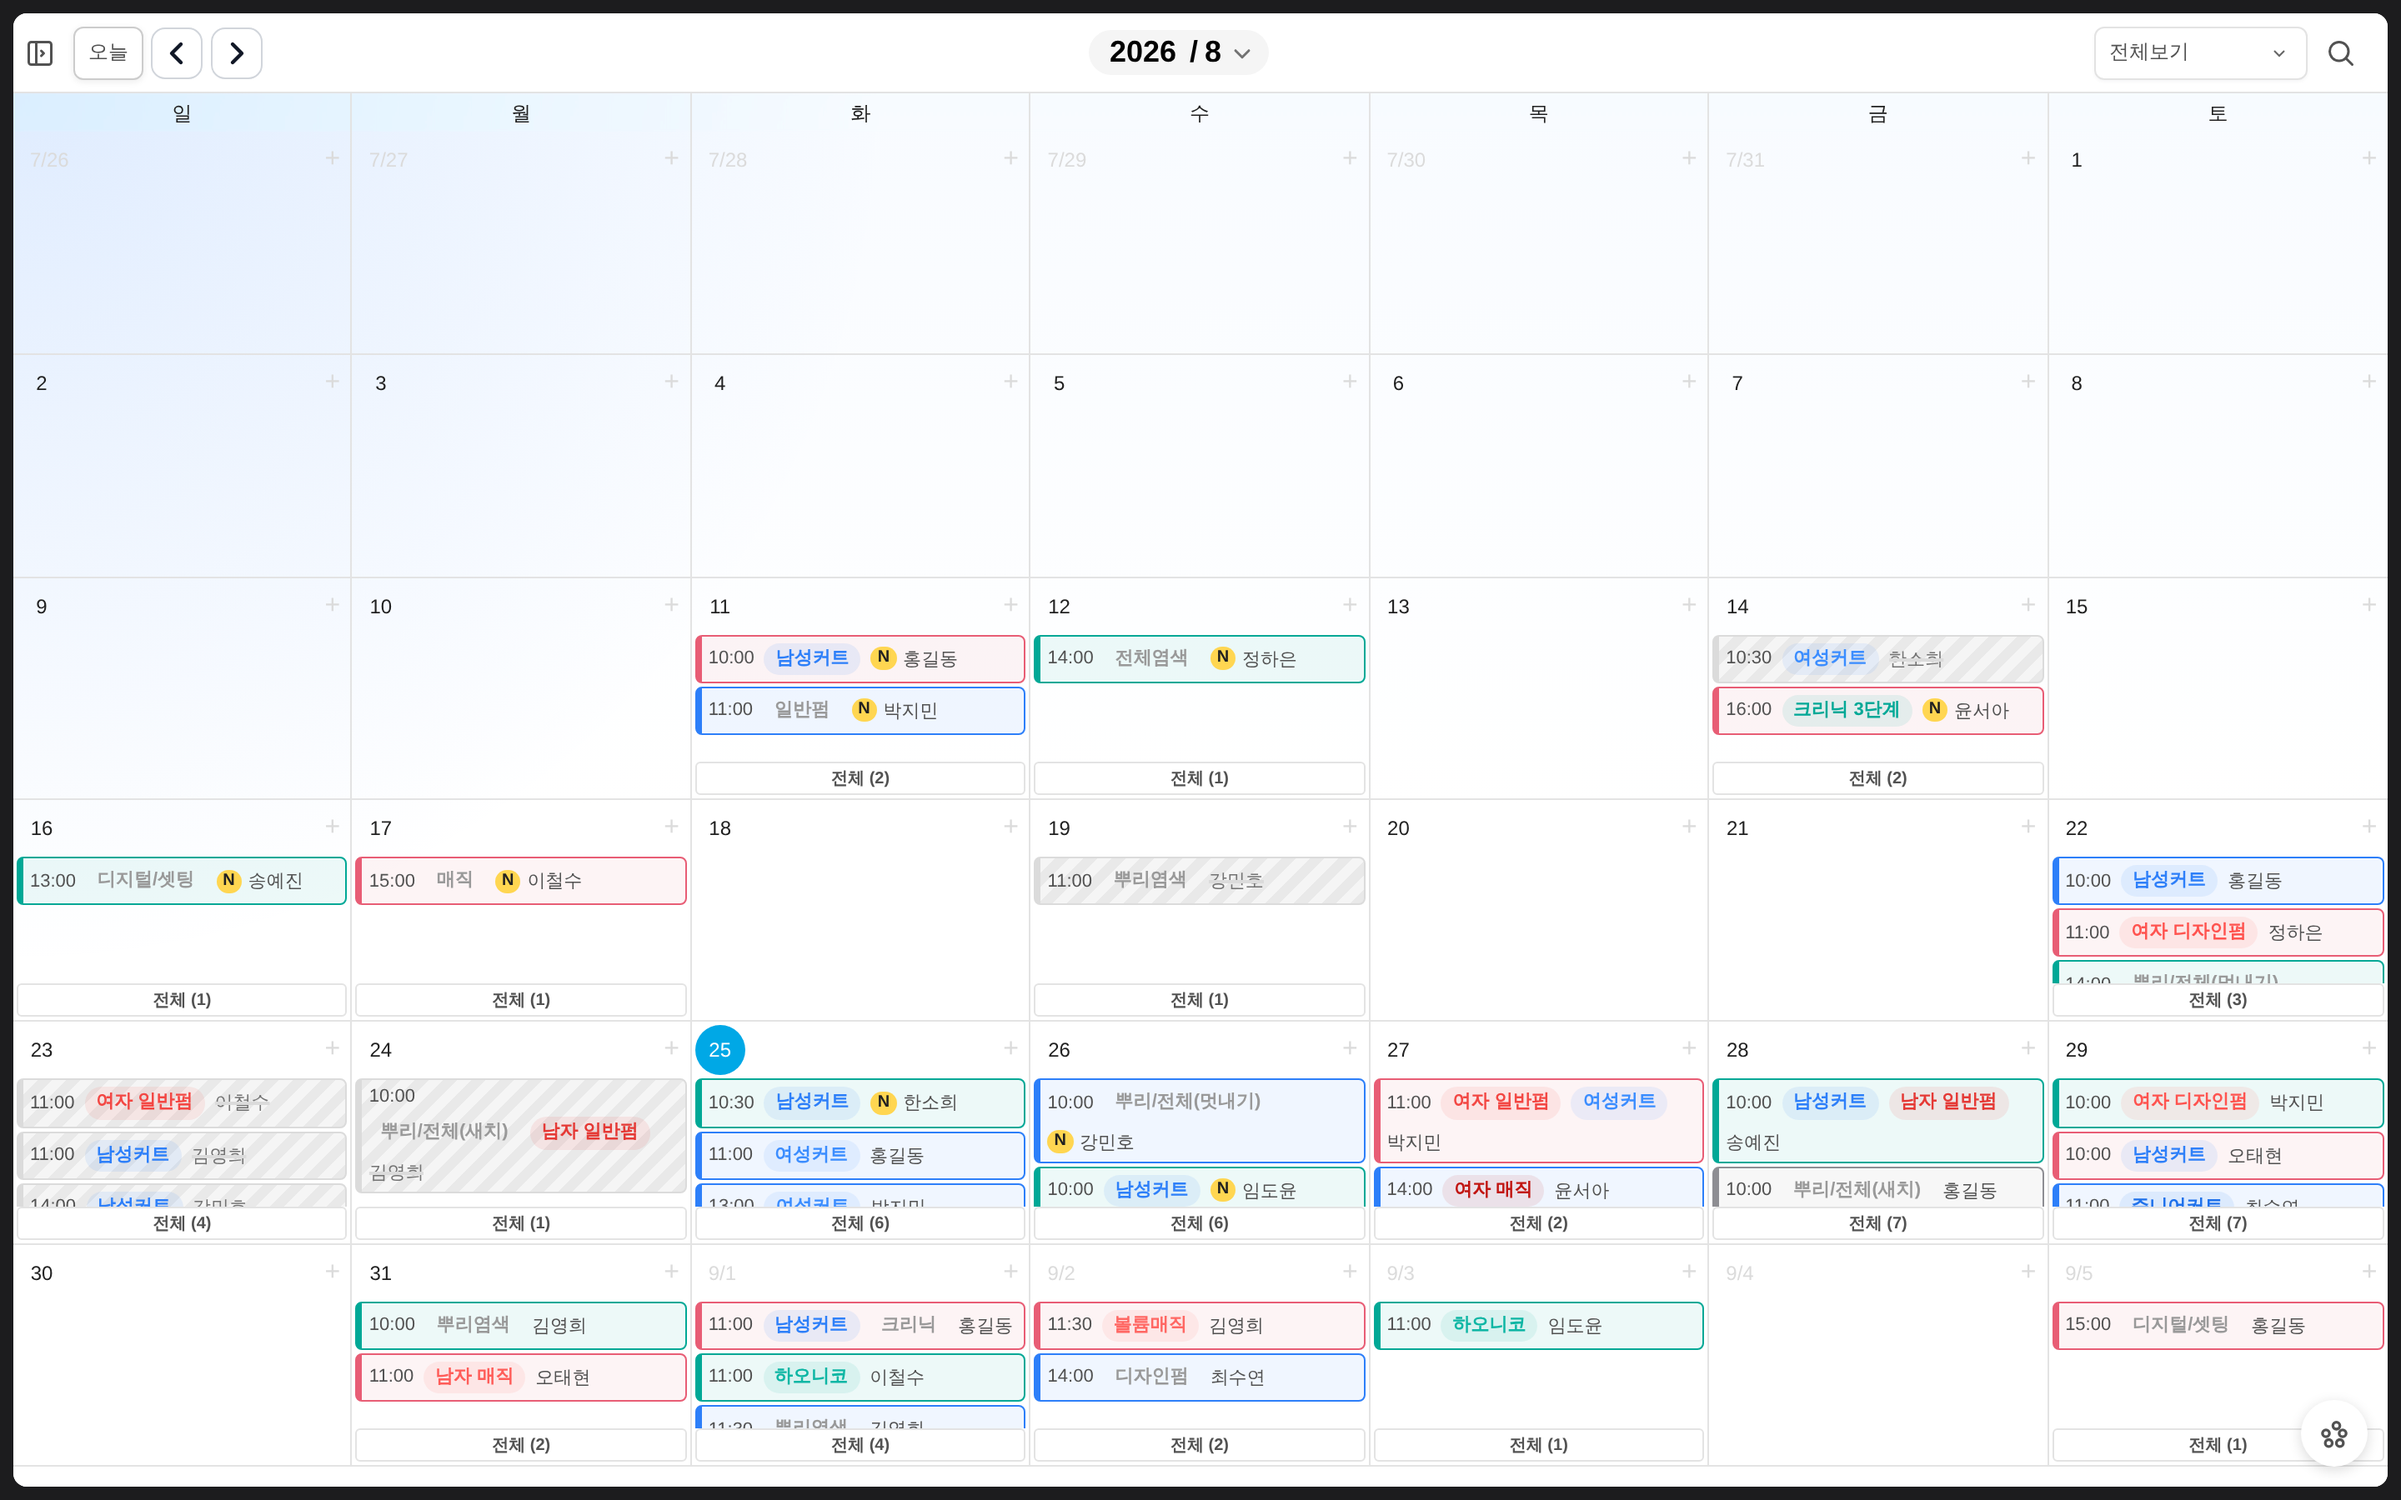
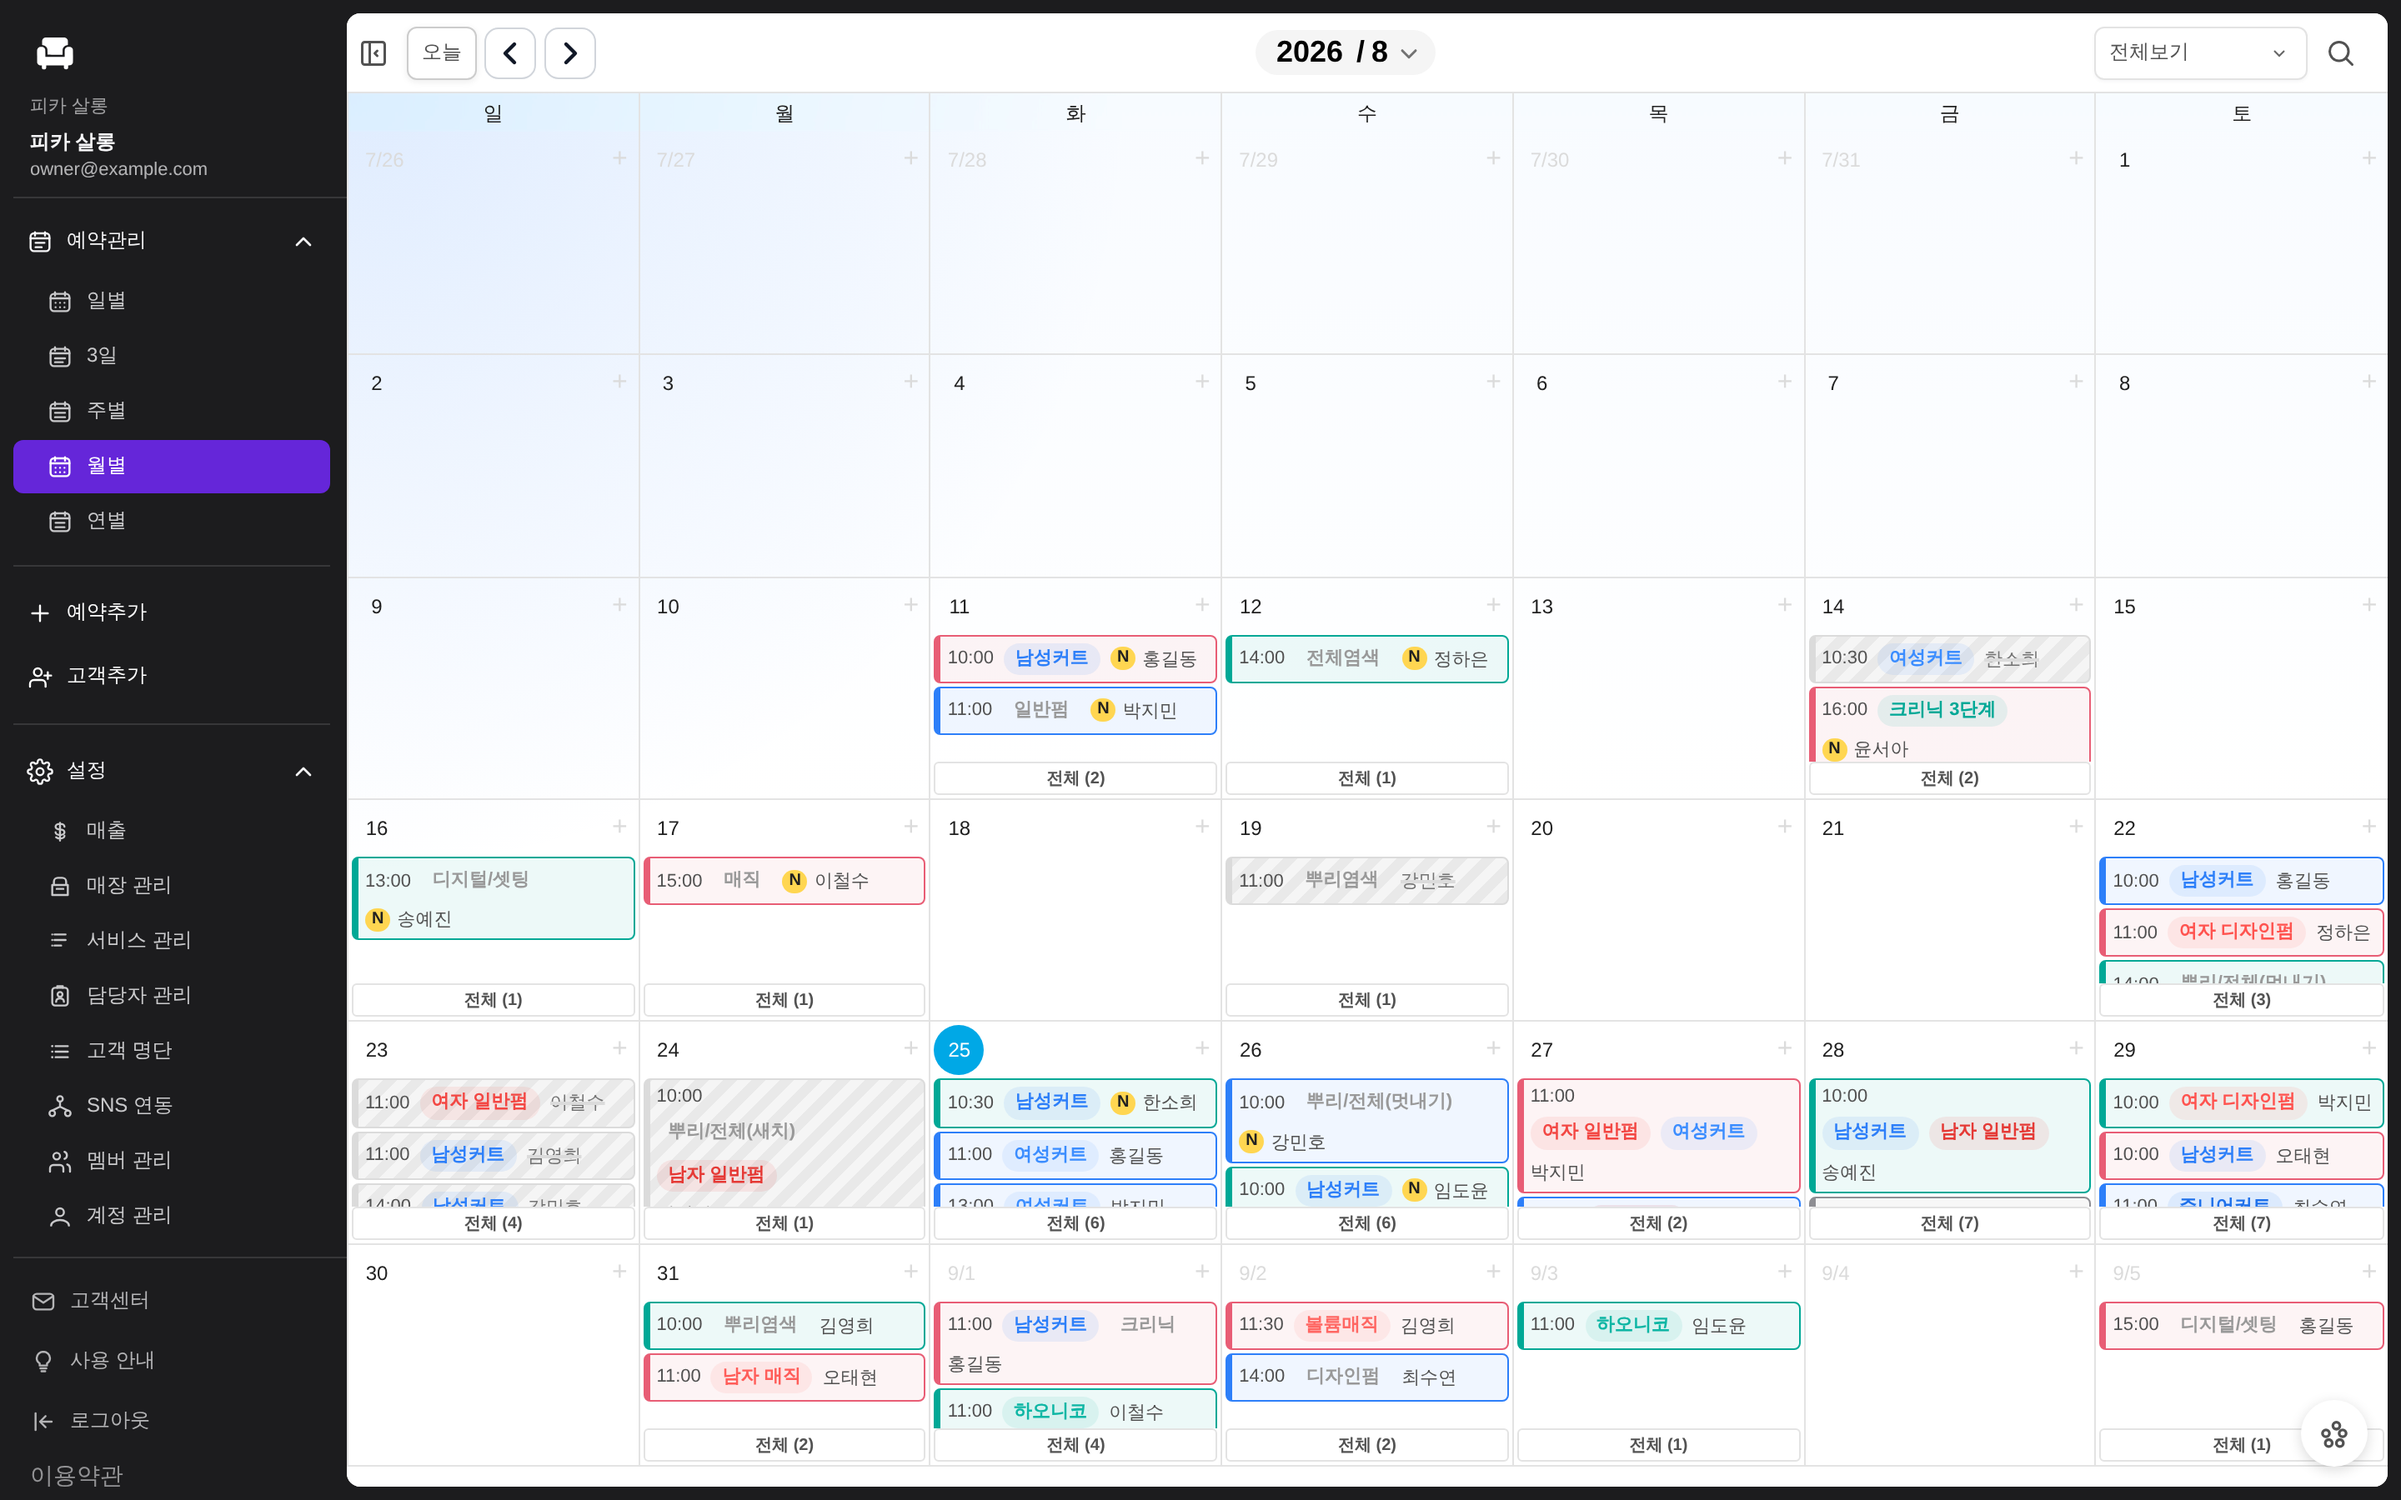
style(ig): 내용 슬라이드에도 pikaworks 서명, 데스크톱 샷은 사이드바 펼침
서명을 커버·마감과 같은 자리(왼쪽 아래)·같은 크기(210px)로 맞췄다.
다섯 장을 넘길 때 왼쪽 아래가 흔들리지 않아야 한 묶음으로 읽힌다.
서비스 로고와 이름은 오른쪽으로 보냈고 도메인은 뺐다 — 마감 카드가
이미 전체 URL 을 들고 있어 중복이었다.

데스크톱 스크린샷은 사이드바를 펼쳐 다시 찍었다. 예약관리·매출·고객
명단·담당자 관리가 한눈에 보여서, 화면 한 장만으로 무엇을 하는
서비스인지 읽힌다. 모바일은 드로어라 접힌 것이 정상이라 그대로 뒀다.

촬영 스크립트에 검증을 하나 더 넣었다 — 데스크톱 샷에 "예약관리" 가
없으면 실패한다. 사이드바가 조용히 접힌 채로 찍히는 것을 막는다.

Claude-Session: https://claude.ai/code/session_015i13Ss3u6NzLjVJSARtwAH

diff --git a/assets/shots/SOURCE.md b/assets/shots/SOURCE.md
@@ -12,6 +12,10 @@
 | `mobile-customers.png` | 고객 명단 | 390×844 @2x |
 | `mobile-revenue.png` | 매출 | 390×844 @2x |
 
+데스크톱은 `localStorage['aside-visible'] = true` 로 사이드바를 펼친 채
+찍는다. 메뉴가 보여야 한 장에서 무엇을 하는 서비스인지 읽힌다.
+모바일은 드로어라 접힌 것이 정상이다.
+
 ## 개인정보
 
 **실제 고객 데이터가 아니다.** 전부 `mjkang0987/tas` 의 시드
@@ -48,6 +52,8 @@
 - 본문에 "SNS 계정으로 로그인" 이 있으면 즉시 실패
 - 각 페이지의 고유 문구(캘린더 `2026`, 고객 `고객 명단`, 매출 `매출`)가
   없으면 즉시 실패
+- 데스크톱 샷에 `예약관리` 가 없으면 실패 — 사이드바가 조용히 접힌 채로
+  찍히는 것을 막는다
 
 조용히 잘못된 것을 찍느니 시끄럽게 죽는 편이 낫다.
 
